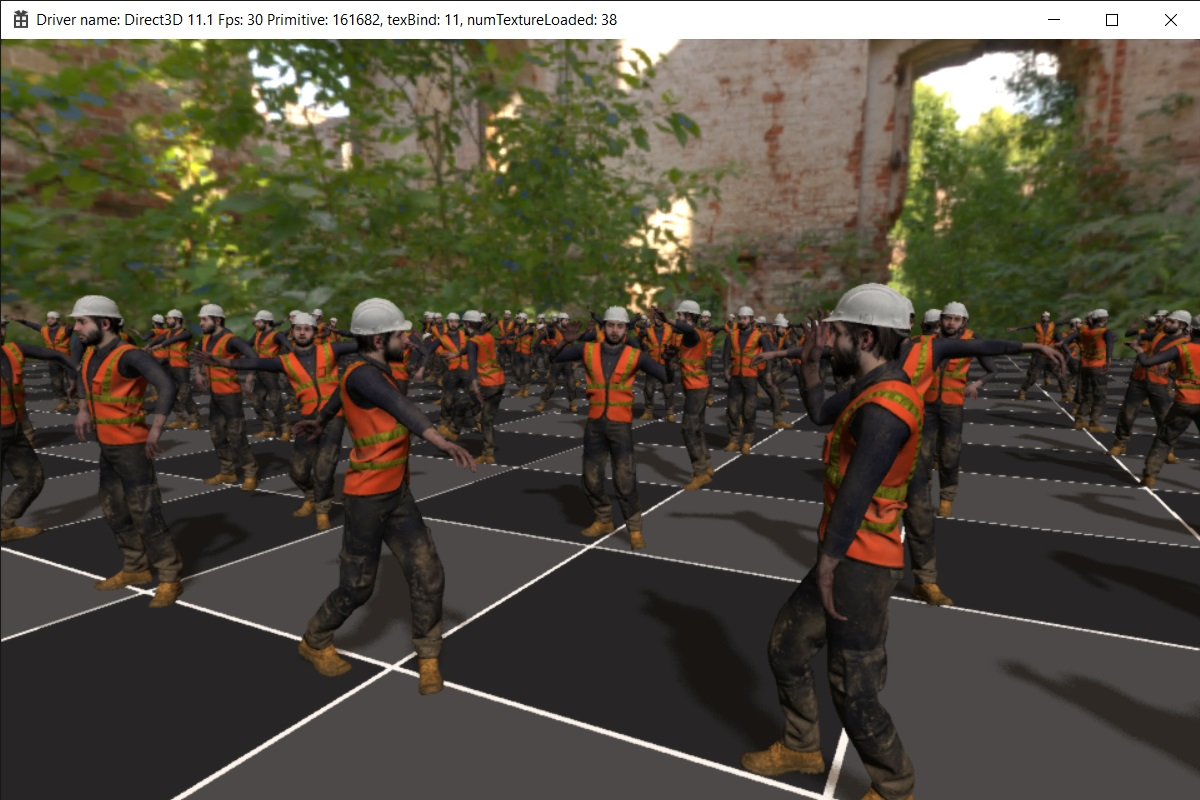
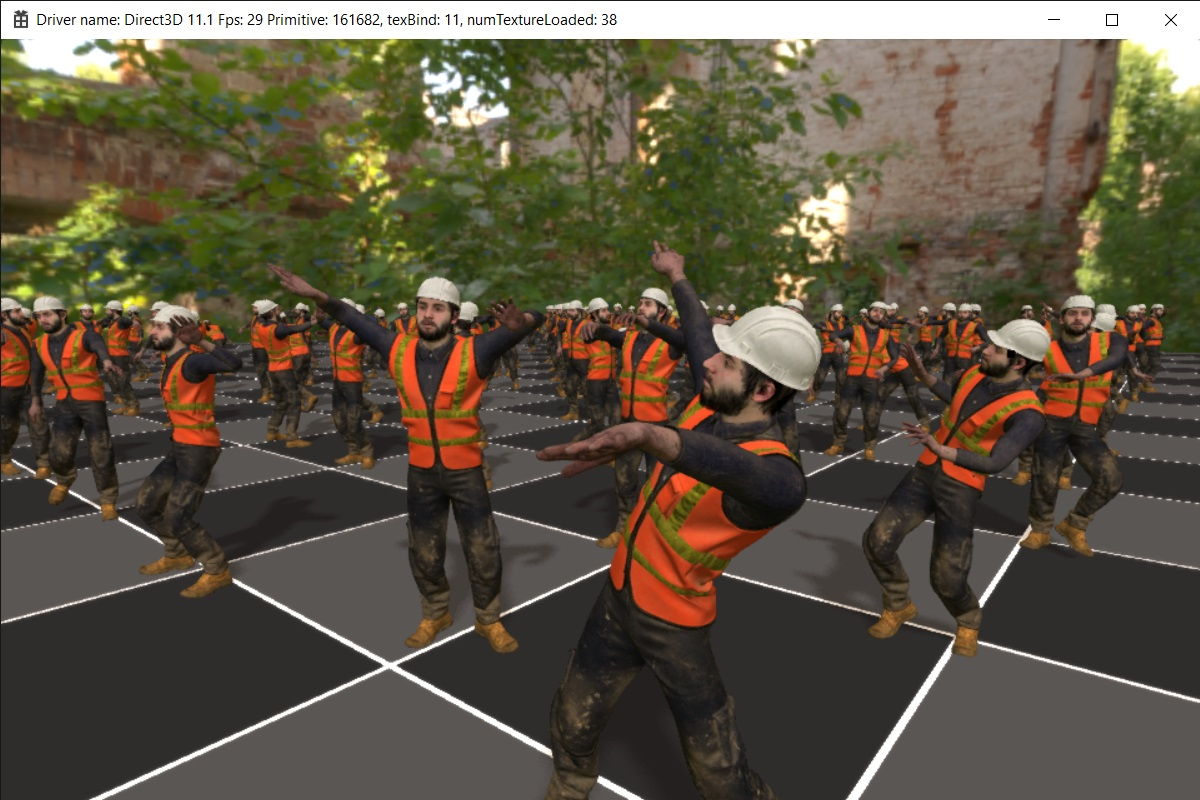
Update the ambient (skinned instancing) is brighter

diff --git a/Samples/SkinnedMeshInstancing/Source/CViewInit.cpp b/Samples/SkinnedMeshInstancing/Source/CViewInit.cpp
@@ -99,10 +99,10 @@ void CViewInit::initScene()
 	reflection->loadStaticTexture("Common/Textures/Sky/PaperMill");
 
 	// 3D grid
-	CGameObject* grid = zone->createEmptyObject();
-	CPlane* plane = grid->addComponent<CPlane>();
+	m_plane = zone->createEmptyObject();
+	CPlane* plane = m_plane->addComponent<CPlane>();
 	plane->getMaterial()->changeShader("BuiltIn/Shader/SpecularGlossiness/Deferred/MetersGrid.xml");
-	grid->getTransformEuler()->setScale(core::vector3df(50.0f, 1.0f, 50.0f));
+	m_plane->getTransformEuler()->setScale(core::vector3df(50.0f, 1.0f, 50.0f));
 
 
 	// lighting
@@ -198,8 +198,8 @@ void CViewInit::initScene()
 		character->remove();
 
 		// create gpu anim character
-		character = zone->createEmptyObject();
-		CRenderSkinnedInstancing* crowdSkinnedMesh = character->addComponent<CRenderSkinnedInstancing>();
+		m_crowd = zone->createEmptyObject();
+		CRenderSkinnedInstancing* crowdSkinnedMesh = m_crowd->addComponent<CRenderSkinnedInstancing>();
 		crowdSkinnedMesh->initFromPrefab(prefab);
 		crowdSkinnedMesh->initTextureTransform(animationData, totalFrames, numBones * numClip, boneMap);
 
@@ -382,6 +382,11 @@ void CViewInit::onRender()
 			CCamera* bakeCamera = bakeCameraObj->addComponent<CCamera>();
 			scene->updateAddRemoveObject();
 
+			// hide objects
+			// that fix the probes ambient is brigther because plane color affect on it
+			m_crowd->setVisible(false);
+			m_plane->setVisible(false);
+
 			// bake light probe
 			Lightmapper::CLightmapper* lm = Lightmapper::CLightmapper::getInstance();
 			lm->initBaker(64);
@@ -390,6 +395,10 @@ void CViewInit::onRender()
 			probes.push_back(lightProbe);
 
 			lm->bakeProbes(probes, bakeCamera, rp, scene->getEntityManager());
+
+			// show objects again
+			m_crowd->setVisible(true);
+			m_plane->setVisible(true);
 		}
 	}
 	else

diff --git a/Samples/SkinnedMeshInstancing/Source/CViewInit.h b/Samples/SkinnedMeshInstancing/Source/CViewInit.h
@@ -27,6 +27,9 @@ protected:
 	CGUIText* m_textInfo;
 	CGlyphFont* m_font;
 
+	CGameObject* m_plane;
+	CGameObject* m_crowd;
+
 protected:
 	io::path getBuiltInPath(const char* name);
 
